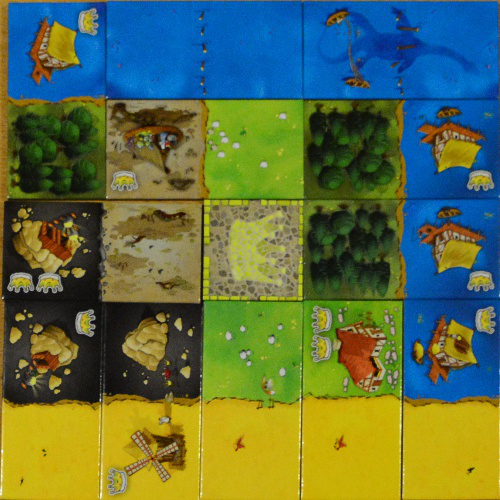
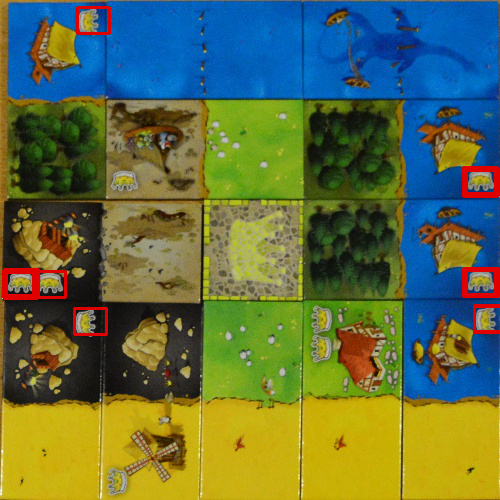
New Crowntemplating

diff --git a/CrownTemplate.py b/CrownTemplate.py
@@ -1,46 +1,44 @@
+from pathlib import Path
+
 import cv2 as cv
 import numpy
 
-crown_left = cv.imread('Crowns/LeftCrowns/crownLeft.jpg', 0)
-imgsearch_left_crowns = cv.imread('20.jpg')
-img_gray_left = cv.cvtColor(imgsearch_left_crowns, cv.COLOR_BGRA2GRAY)
-w, h = crown_left.shape[::-1]
 
-crown_right = cv.imread('Crowns/RightCrowns/crownRight.jpg', 0)
-imgsearch_right_crowns = cv.imread('20.jpg')
-img_gray_right = cv.cvtColor(imgsearch_right_crowns, cv.COLOR_BGRA2GRAY)
-w, h = crown_right.shape[::-1]
+#Importing the different crown template images.
+input_dir_up = Path.cwd() / "crownImages/up"  # Path.cwd finds current working directory(where this file is run) and a folder name
+input_dir_right = Path.cwd() / "crownImages/right"
+input_dir_down = Path.cwd() / "crownImages/down"
+input_dir_left = Path.cwd() / "crownImages/left"
 
-crown_down = cv.imread('Crowns/DownCrowns/CrownDown.jpg', 0)
-imgsearch_down_crowns = cv.imread('20.jpg')
-img_gray_down = cv.cvtColor(imgsearch_down_crowns, cv.COLOR_BGRA2GRAY)
-w, h = crown_down.shape[::-1]
+#Add the images to lists
+ex_images_up = list(input_dir_up.glob('*.jpg'))  # Finds all images in folder  .png extension and adds them to an array
+ex_images_right = list(input_dir_right.glob('*.jpg'))
+ex_images_down = list(input_dir_up.glob('*.jpg'))
+ex_images_left = list(input_dir_left.glob('*.jpg'))
 
-res_left = cv.matchTemplate(img_gray_left, crown_left, cv.TM_CCOEFF_NORMED)
-threshold = 0.5
-loc = numpy.where(res_left >= threshold)
-for pt in zip(*loc[::-1]):
-    cv.rectangle(imgsearch_left_crowns, pt, (pt[0] + w, pt[1] + h), (0, 0, 225), 2)
+for crown_image in ex_images_left:
+    print(crown_image)
 
-res_right = cv.matchTemplate(img_gray_right, crown_right, cv.TM_CCOEFF_NORMED)
-threshold = 0.90
-loc = numpy.where(res_right >= threshold)
-for pt in zip(*loc[::-1]):
-    cv.rectangle(imgsearch_right_crowns, pt, (pt[0] + w, pt[1] + h), (0, 0, 225), 2)
+#Image To Search for crowns in
+imgsearch = cv.imread('20.jpg')
+#To grayscale
+img_gray = cv.cvtColor(imgsearch, cv.COLOR_BGRA2GRAY)
+#width and height of image
 
-res_down = cv.matchTemplate(img_gray_down, crown_down, cv.TM_CCOEFF_NORMED)
-threshold = 0.7
-loc = numpy.where(res_down >= threshold)
-for pt in zip(*loc[::-1]):
-    cv.rectangle(imgsearch_down_crowns, pt, (pt[0] + w, pt[1] + h), (0, 0, 225), 2)
+DEFAULT_THRESHOLD = 0.5
+detections = []
+def Find_Crowns_in_Image(gray_image, listOfExampleCrowns):
+    for crown_image in listOfExampleCrowns: # Loop over every image in the list
+        w, h = crown_image.shape[::-1] # finding the width and height of the image ??
+        res_left = cv.matchTemplate(gray_image, crown_image, cv.TM_CCOEFF_NORMED)
+        loc = numpy.where(res_left >= DEFAULT_THRESHOLD)
+        for pt in zip(*loc[::-1]):
+            cv.rectangle(gray_image, pt, (pt[0] + w, pt[1] + h), (0, 0, 225), 2)
+            detections.append(pt)
+    return  gray_image
 
-cv.imwrite('res_left.png', imgsearch_left_crowns)
-cv.imshow('leftCrowns', imgsearch_left_crowns)
-
-cv.imwrite('res_right.png', imgsearch_right_crowns)
-cv.imshow('rightCrowns', imgsearch_right_crowns)
-
-cv.imwrite('res_down.png', imgsearch_down_crowns)
-cv.imshow('downCrowns', imgsearch_down_crowns)
+image = Find_Crowns_in_Image(img_gray,ex_images_up)
+cv.imshow("image", image)
+print(detections)
 
 cv.waitKey(0)

diff --git a/PreProssessing.py b/PreProssessing.py
@@ -13,9 +13,7 @@ cv.imshow("blurred", blurred)# show the input image
 listOfTiles = DivideimageIntoParts.divide_image(blurred) #Divide the image into 25 tiles
 #HelperFunctions.show_images_in_list(listOfTiles) # Show the divided tiles!
 
-
 colours = DominantColourFinder.get_list_of_dominant_colours(listOfTiles) # colours of the tiles
-
 
 merged = MergeDominantColourImages.MergeImages(colours)
 cv.imshow("tes", merged)
